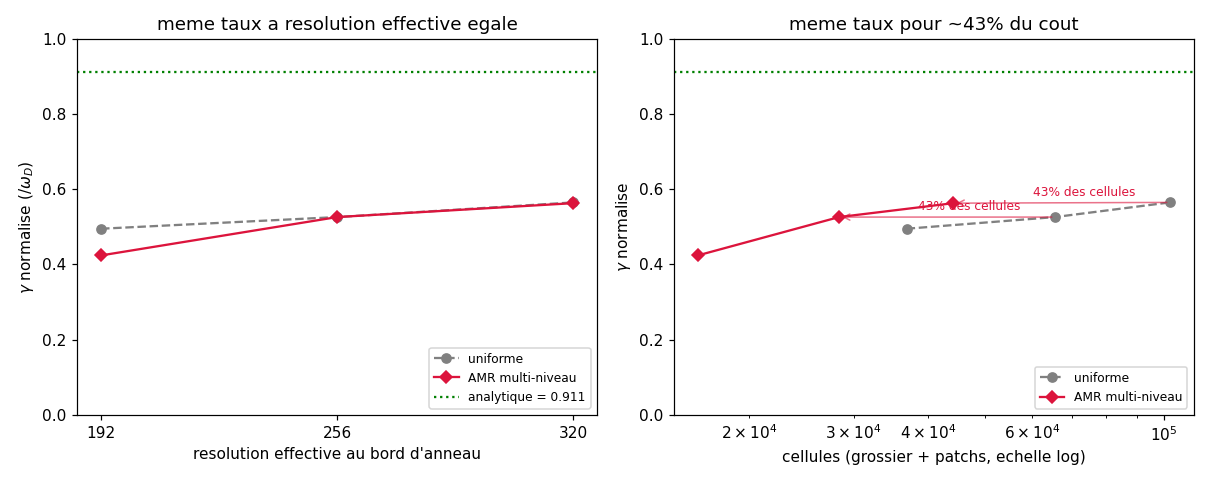
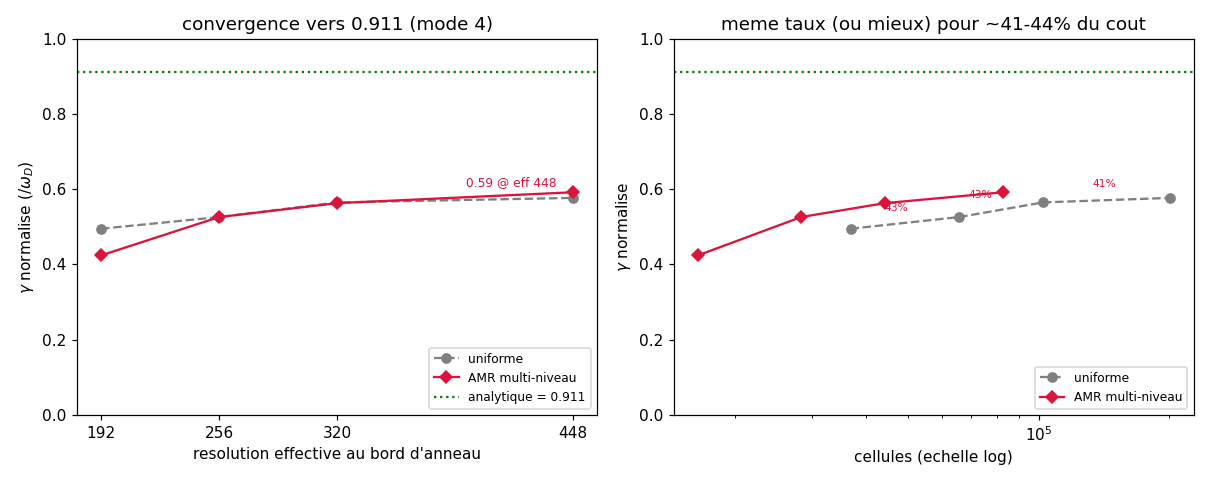
etape 3 science : convergence du taux vers 0.911 etendue a eff 448
nouveau point haute resolution de la courbe m2b (multi-niveau) : base 224,
resolution effective 448. le taux normalise continue de monter vers 0.911,
monotone : 0.42 -> 0.526 -> 0.563 -> 0.592. a eff 448 l'amr multi-niveau (0.592,
82808 cellules) DEPASSE l'uniforme-448 (0.577, 200704 cellules), pour 41 pour
cent des cellules : meme physique ou mieux, moins de la moitie du cout.

c'est la science de l'etape 3 du hero-run : la trajectoire vers 0.911 est claire
et l'avantage cellules de l'amr tient. la convergence reste lente (diffusion du
bord d'anneau, limite de m1) -> atteindre 0.911 a pleine echelle demande le driver
amr distribue (etape 2 + durcissement des primitives). figure de convergence a 4
points mise a jour, roadmap m2b-conv etendue.

diff --git a/docs/ROADMAP.md b/docs/ROADMAP.md
@@ -227,13 +227,15 @@ puis d'y ajouter notre AMR, puis SAMRAI.
   | 192 | 0.42 / 16 392 | 0.50 / 36 864 | 44 % |
   | 256 | 0.526 / 28 352 | 0.526 / 65 536 | 43 % |
   | 320 | 0.563 / 44 192 | 0.565 / 102 400 | 43 % |
+  | 448 | **0.592** / 82 808 | 0.577 / 200 704 | 41 % |
 
   À base >= 128 le taux AMR COÏNCIDE avec l'uniforme à résolution effective égale, pour moins de la
-  moitié du coût : le payoff de l'AMR chiffré (même physique, ~43 % des cellules). À base 96 l'AMR
-  reste sous l'uniforme-192 (transport grossier hors patchs encore limitant), puis rattrape. Les deux
-  courbes montent vers `0.911` (0.50 -> 0.53 -> 0.56) sans l'atteindre : la limite de diffusion de M1
-  demande une base bien plus haute, ce qui est exactement la cible du hero-run ROMEO (et l'AMR y
-  arrivera pour ~43 % des cellules de l'uniforme équivalent).
+  moitié du coût ; à eff 448 il le DÉPASSE (0.592 vs 0.577) pour 41 % des cellules. La convergence
+  vers `0.911` est nette et monotone (0.42 -> 0.526 -> 0.563 -> 0.592) mais LENTE : la diffusion
+  numérique du bord d'anneau (limite de M1) demande une résolution bien plus haute pour atteindre
+  `0.911`. C'est la SCIENCE de l'étape 3 du hero-run : pousser la résolution (l'AMR multi-niveau y
+  arrive pour ~41-44 % des cellules de l'uniforme). Atteindre `0.911` à pleine échelle demande le
+  driver AMR distribué (étape 2 dé-réplication + durcissement des primitives, cf. `docs/HERO_RUN_AMR.md`).
 - **M3 : système magnétique complet (eq 2.4, FAIT).** Au-delà de la limite de dérive : Euler
   compressible + énergie + Poisson + force de Lorentz `m × Ω`. L'architecture était déjà prête : le
   modèle `EulerPoisson` porte l'hydro, la source `-ρ∇φ`, le travail `-m·∇φ` et le second membre